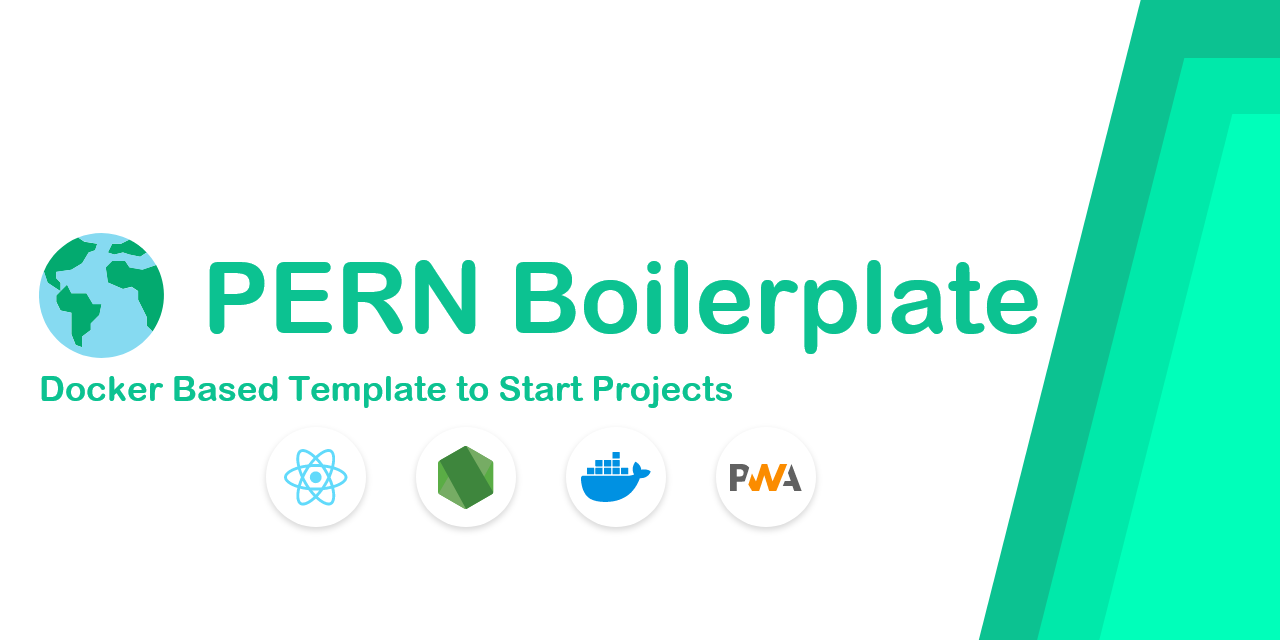
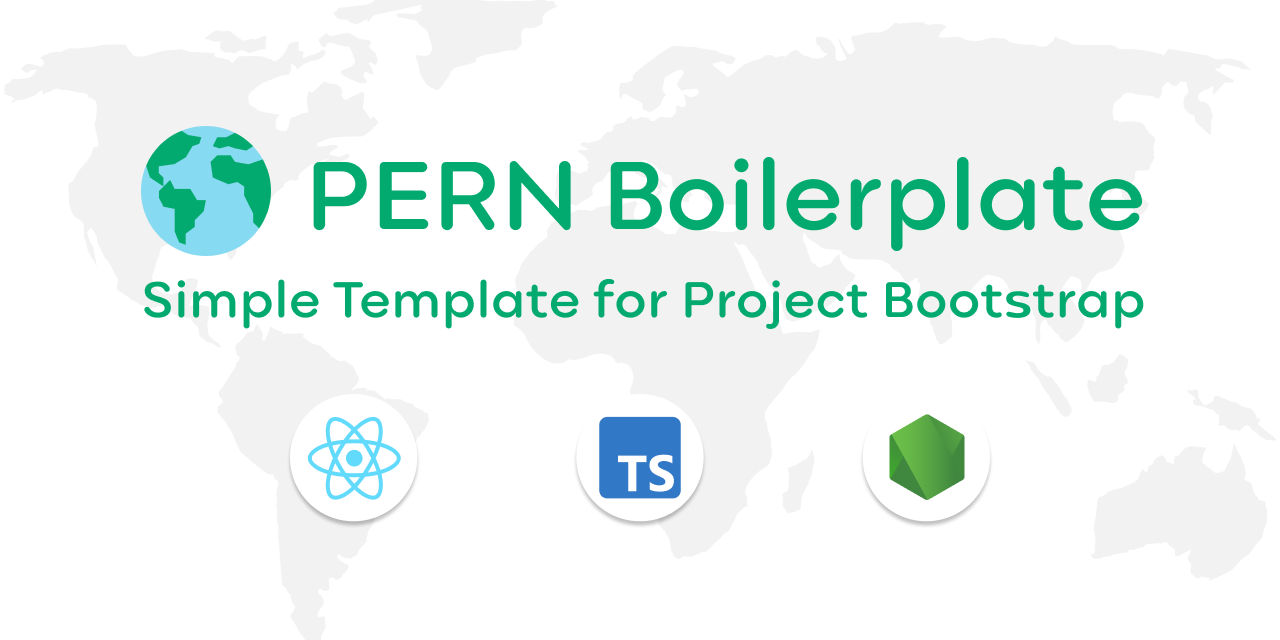
updated readme and pern header

diff --git a/README.md b/README.md
@@ -1,9 +1,8 @@
 ## Hi There <img src="https://media.giphy.com/media/hvRJCLFzcasrR4ia7z/giphy.gif" width="25px" height="25px"> I'm Michelangelo
 
-- 📈 **E-Trading FX Quant**, currently dedicated to the development of low-latency Pricing Engines for FX Markets
+- 📈 **E-Trading FX Quant**, currently dedicated to the development of low-latency Pricing Engines for FX Market
 - 📍 Living in **Milan, Italy**
 
-<br>
 <div align="center">
 
 [![](https://img.shields.io/badge/-Linkedin-informational?style=for-the-badge&logo=linkedin&logoColor=white&color=2867B2)](https://www.linkedin.com/in/DFMichelangelo/)
@@ -17,7 +16,7 @@
 - <img align="left" src="./media/Unicredit.png" /> 
     <strong>E-Trading FX Quant</strong>
     <br>
-    <em>UniCredit</em>
+    <em>UniCredit Bank</em>
 
 * <img align="left" src="./media/Unicredit.png" /> 
     <strong>Quantitative Analyst</strong> - Credit Risk Modeling
@@ -51,16 +50,29 @@
   <em>Ca' Foscari University of Venice</em>
 
 ### 💻 Tech Stack
+ 
+- **Main Stack**\
+<a href="https://www.python.org" target="_blank" rel="noreferrer"> <img src="https://raw.githubusercontent.com/devicons/devicon/master/icons/python/python-original.svg" alt="python" width="40" height="40"/> </a> 
+- **Web Stack**\
+<a href="https://developer.mozilla.org/en-US/docs/Web/JavaScript" target="_blank" rel="noreferrer"> <img src="https://raw.githubusercontent.com/devicons/devicon/master/icons/javascript/javascript-original.svg" alt="javascript" width="40" height="40"/> </a>
+<a href="https://www.typescriptlang.org/" target="_blank" rel="noreferrer"> <img src="https://raw.githubusercontent.com/devicons/devicon/master/icons/typescript/typescript-original.svg" alt="typescript" width="40" height="40"/> </a><a href="https://reactnative.dev/" target="_blank" rel="noreferrer"> <img src="https://reactnative.dev/img/header_logo.svg" alt="reactnative" width="40" height="40"/> </a><a href="https://nodejs.org" target="_blank" rel="noreferrer"> <img src="https://raw.githubusercontent.com/devicons/devicon/master/icons/nodejs/nodejs-original-wordmark.svg" alt="nodejs" width="40" height="40"/> </a>
+- **Databases**\
+<a href="https://www.mysql.com/" target="_blank" rel="noreferrer"> <img src="https://raw.githubusercontent.com/devicons/devicon/master/icons/mysql/mysql-original-wordmark.svg" alt="mysql" width="40" height="40"/> </a>
+<a href="https://www.postgresql.org" target="_blank" rel="noreferrer"> <img src="https://raw.githubusercontent.com/devicons/devicon/master/icons/postgresql/postgresql-original-wordmark.svg" alt="postgresql" width="40" height="40"/></a>
+<a href="https://clickhouse.com/" target="_blank" rel="noreferrer"> <img src="https://clickhouse.com/docs/img/logo.png" alt="clickhouse" width="40" height="40"/></a> 
 
-- **Programming Languages**: Python, Java, Scala, SQL, Matlab
-- **Web Programming Languages**: Javascript, Typescript, Node, React, FastAPI
-- **Databases**: MySQL, PostgreSQL, Kdb/q, Clickhouse 
-- **Other**: Docker, CI/CD Pipelines, Grafana, SBE & FIX Protocols
+- **Tools**\
+<a href="https://www.docker.com/" target="_blank" rel="noreferrer"> <img src="https://raw.githubusercontent.com/devicons/devicon/master/icons/docker/docker-original-wordmark.svg" alt="docker" width="40" height="40"/> </a>
+<a href="https://grafana.com" target="_blank" rel="noreferrer"> <img src="https://www.vectorlogo.zone/logos/grafana/grafana-icon.svg" alt="grafana" width="40" height="40"/></a>
+
+
+- **Other**\
+ CI/CD Pipelines, SBE & FIX Protocols
 
 ### 📦 My Projects
 | Project | Description | Stack | Links |
 | ------- | ----------- | ----- | ----- |
 | **BackTestify**             | Backtesting platform for algorithmic trading strategies                                                    | <ul><li>**Backtester Engine**: Python, FastAPI, Github Actions<li>**Infrastructure**: PERN Boilerplate</li></ul> | <ul><li>Backtester Engine:<br>[![](https://img.shields.io/badge/-🌎_Website-informational?style=for-the-badge&logoColor=black&color=white)](https://backtestify-backtester-engine.herokuapp.com/)[![](https://img.shields.io/badge/-Repository-informational?style=for-the-badge&logo=github&logoColor=black&color=white)](https://github.com/DFMichelangelo/BackTestify-Backtester-Engine)<li>WebApp:<br>[![](https://img.shields.io/badge/-🌎_Website-informational?style=for-the-badge&logoColor=black&color=white)](https://backtestify.netlify.app/)[![](https://img.shields.io/badge/-Repository-informational?style=for-the-badge&logo=github&logoColor=black&color=white)](https://github.com/DFMichelangelo/BackTestify-WebApp)</li><li>Admin:<br>[![](https://img.shields.io/badge/-🌎_Website-informational?style=for-the-badge&logoColor=black&color=white)](https://backtestify-admin.netlify.app/)[![](https://img.shields.io/badge/-Repository-informational?style=for-the-badge&logo=github&logoColor=black&color=white)](https://github.com/DFMichelangelo/BackTestify-Admin)</li><li>Backend:<br>[![](https://img.shields.io/badge/-🌎_Website-informational?style=for-the-badge&logoColor=black&color=white)](https://backtestify-backend.herokuapp.com/)[![](https://img.shields.io/badge/-Repository-informational?style=for-the-badge&logo=github&logoColor=black&color=white)](https://github.com/DFMichelangelo/BackTestify-Backend)</li></ul> |
-| **PERN Docker Boilerplate** | PERN Boilerplate for the development and go-prod of a PWA with Docker and CI/CD integrated | Javascript (Typescript), Node, SQL, React, Docker, PostgreSQL, PM2, Github Actions                                                                                                 |  <ul><li>WebApp:<br>[![](https://img.shields.io/badge/-🌎_Website-informational?style=for-the-badge&logoColor=black&color=white)](https://apppern.netlify.app/)[![](https://img.shields.io/badge/-Repository-informational?style=for-the-badge&logo=github&logoColor=black&color=white)](https://github.com/DFMichelangelo/PERN-Docker-Boilerplate-WebApp)</li><li>Admin:<br>[![](https://img.shields.io/badge/-🌎_Website-informational?style=for-the-badge&logoColor=black&color=white)](https:/adminpern.netlify.app/)[![](https://img.shields.io/badge/-Repository-informational?style=for-the-badge&logo=github&logoColor=black&color=white)](https://github.com/DFMichelangelo/PERN-Docker-Boilerplate-Admin)</li><li>Backend:<br>[![](https://img.shields.io/badge/-🌎_Website-informational?style=for-the-badge&logoColor=black&color=white)](https://pern-boilerplate-backend.herokuapp.com/)[![](https://img.shields.io/badge/-Repository-informational?style=for-the-badge&logo=github&logoColor=black&color=white)](https://github.com/DFMichelangelo/PERN-Docker-Boilerplate-Backend)</li></ul>                                                                                                                                   |
+| **PERN Docker Boilerplate** | Simple Template for Project Bootstrap | Javascript (Typescript), Node, SQL, React                                                                                                 |  <ul><li>WebApp:<br>[![](https://img.shields.io/badge/-🌎_Website-informational?style=for-the-badge&logoColor=black&color=white)](https://apppern.netlify.app/)[![](https://img.shields.io/badge/-Repository-informational?style=for-the-badge&logo=github&logoColor=black&color=white)](https://github.com/DFMichelangelo/PERN-Docker-Boilerplate-WebApp)</li><li>Admin:<br>[![](https://img.shields.io/badge/-🌎_Website-informational?style=for-the-badge&logoColor=black&color=white)](https:/adminpern.netlify.app/)[![](https://img.shields.io/badge/-Repository-informational?style=for-the-badge&logo=github&logoColor=black&color=white)](https://github.com/DFMichelangelo/PERN-Docker-Boilerplate-Admin)</li><li>Backend:<br>[![](https://img.shields.io/badge/-🌎_Website-informational?style=for-the-badge&logoColor=black&color=white)](https://pern-boilerplate-backend.herokuapp.com/)[![](https://img.shields.io/badge/-Repository-informational?style=for-the-badge&logo=github&logoColor=black&color=white)](https://github.com/DFMichelangelo/PERN-Docker-Boilerplate-Backend)</li></ul>                                                                                                                                   |
 
 
